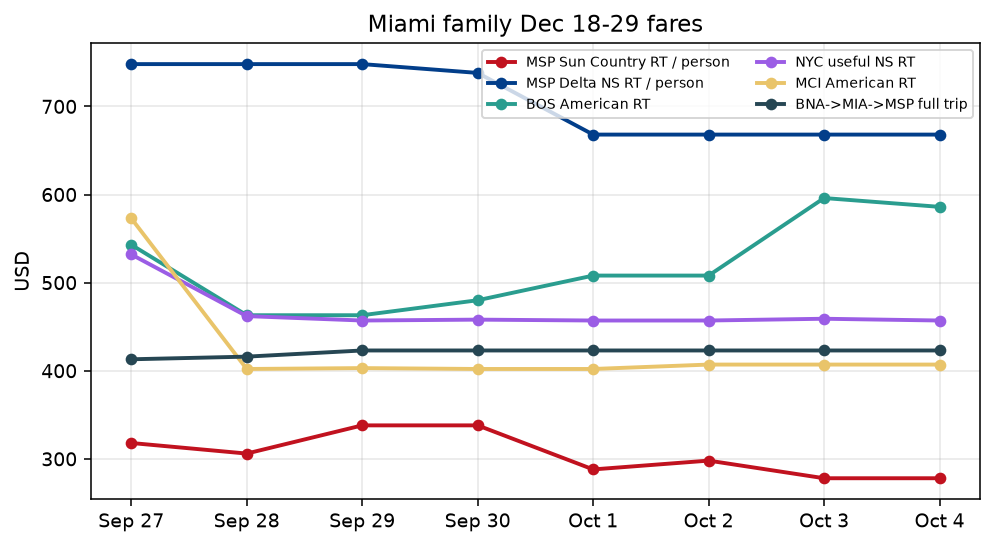
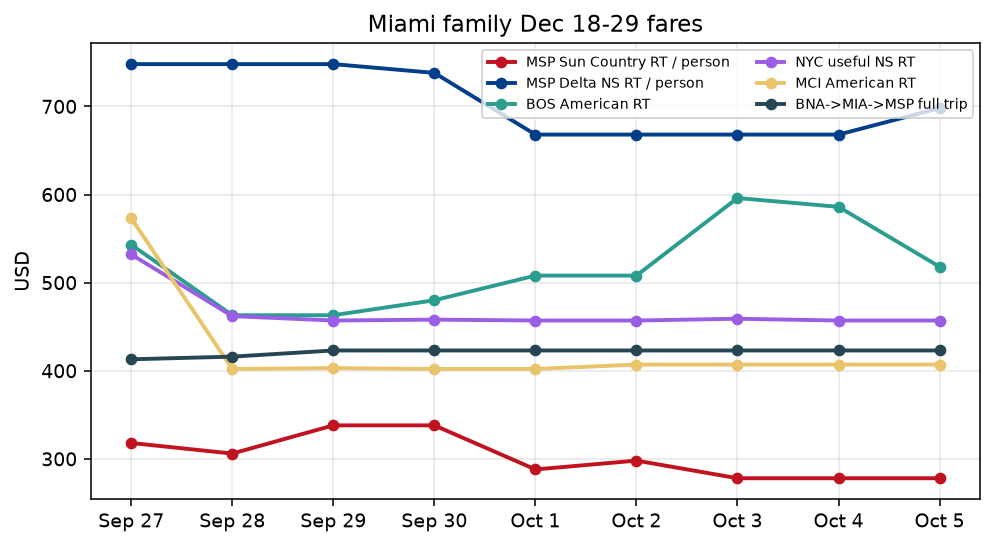
Miami family fare chart Oct 5 2026

diff --git a/6dc15cc5-09f8-44b2-ac51-10da98fa75e8/index.html b/6dc15cc5-09f8-44b2-ac51-10da98fa75e8/index.html
@@ -59,14 +59,14 @@
   BNA→MIA / MIA→MSP = <em>full open-jaw trip</em> (1 adult).</div>
   <div class="warn"><strong>About chart links:</strong> Clicks open the date/route search — Google does not deep-link a specific itinerary.
   For MSP Sun Country, pick the ~6:05a outbound, then the ~11:51a return (today <strong>$278</strong> RT/person; outbound list alone can show lower).</div>
-  <div class="note"><strong>Best time to buy (heuristic):</strong> ~11 weeks to Dec 18. Watch into October; lock by Halloween. MSP Sun Country today: $278/pp. Chart links open the search — pick that airline.</div>
+  <div class="note"><strong>Best time to buy (heuristic):</strong> ~10 weeks to Dec 18. Watch into October; lock by Halloween. MSP Sun Country today: $278/pp. Chart links open the search — pick that airline.</div>
   <div class="chart-box"><canvas id="c"></canvas></div>
   <p class="hint">Updated from watch scans. Not financial advice.</p>
   <div class="table-scroll"><table id="t"><thead><tr><th>Date</th><th>Route</th><th>$</th><th>Basis</th><th>OUT</th><th>RETURN</th><th>Link</th></tr></thead><tbody></tbody></table></div>
   <div class="cards" id="cards"></div>
 </div>
 <script>
-const datasets = [{"label": "MSP Sun Country RT / person", "borderColor": "#c1121f", "backgroundColor": "#c1121f", "data": [{"x": "2026-09-27", "y": 318, "out": "SY MSP 6:05a→MIA 10:53a Dec 18", "ret": "SY MIA 11:51a→MSP 3:00p Dec 29", "airline": "Sun Country", "url": "https://www.google.com/travel/flights/search?tfs=EAAaHhIKMjAyNi0xMi0xOGoHCAESA01TUHIHCAESA01JQRoeEgoyMDI2LTEyLTI5agcIARIDTUlBcgcIARIDTVNQQAFIAZgBAQ&hl=en&curr=USD", "label": "MSP Sun Country RT / person", "basis": "Round-trip / person (x2 for 2 adults)", "tip": ""}, {"x": "2026-09-28", "y": 306, "out": "SY morning MSP→MIA", "ret": "paired SY return (times not re-logged)", "airline": "Sun Country", "url": "https://www.google.com/travel/flights/search?tfs=EAAaHhIKMjAyNi0xMi0xOGoHCAESA01TUHIHCAESA01JQRoeEgoyMDI2LTEyLTI5agcIARIDTUlBcgcIARIDTVNQQAFIAZgBAQ&hl=en&curr=USD", "label": "MSP Sun Country RT / person", "basis": "Round-trip / person (x2 for 2 adults)", "tip": ""}, {"x": "2026-09-29", "y": 338, "out": "SY MSP→MIA morning", "ret": "SY return (not re-logged)", "airline": "Sun Country", "url": "https://www.google.com/travel/flights/search?tfs=EAAaHhIKMjAyNi0xMi0xOGoHCAESA01TUHIHCAESA01JQRoeEgoyMDI2LTEyLTI5agcIARIDTUlBcgcIARIDTVNQQAFIAZgBAQ&hl=en&curr=USD", "label": "MSP Sun Country RT / person", "basis": "Round-trip / person (x2 for 2 adults)", "tip": ""}, {"x": "2026-09-30", "y": 338, "out": "SY MSP→MIA", "ret": "SY return", "airline": "Sun Country", "url": "https://www.google.com/travel/flights/search?tfs=EAAaHhIKMjAyNi0xMi0xOGoHCAESA01TUHIHCAESA01JQRoeEgoyMDI2LTEyLTI5agcIARIDTUlBcgcIARIDTVNQQAFIAZgBAQ&hl=en&curr=USD", "label": "MSP Sun Country RT / person", "basis": "Round-trip / person (x2 for 2 adults)", "tip": ""}, {"x": "2026-10-01", "y": 288, "out": "SY MSP 6:05a→MIA 10:53a Dec 18", "ret": "SY MIA→MSP (midday pairing typical)", "airline": "Sun Country", "url": "https://www.google.com/travel/flights/search?tfs=EAAaHhIKMjAyNi0xMi0xOGoHCAESA01TUHIHCAESA01JQRoeEgoyMDI2LTEyLTI5agcIARIDTUlBcgcIARIDTVNQQAFIAZgBAQ&hl=en&curr=USD", "label": "MSP Sun Country RT / person", "basis": "Round-trip / person (x2 for 2 adults)", "tip": ""}, {"x": "2026-10-02", "y": 298, "out": "SY MSP 6:05a→MIA 10:53a Dec 18", "ret": "SY MIA 11:51a→MSP 3:00p Dec 29", "airline": "Sun Country", "url": "https://www.google.com/travel/flights/search?tfs=EAAaHhIKMjAyNi0xMi0xOGoHCAESA01TUHIHCAESA01JQRoeEgoyMDI2LTEyLTI5agcIARIDTUlBcgcIARIDTVNQQAFIAZgBAQ&hl=en&curr=USD", "label": "MSP Sun Country RT / person", "basis": "Round-trip / person (x2 for 2 adults)", "tip": "Verified 2026-10-02: outbound list $287; SY+SY RT total $298 after return select. Chart/email use $298."}, {"x": "2026-10-03", "y": 278, "out": "SY MSP 6:05a→MIA 10:53a Dec 18", "ret": "SY MIA 11:51a→MSP 3:00p Dec 29", "airline": "Sun Country", "url": "https://www.google.com/travel/flights/search?tfs=EAAaHhIKMjAyNi0xMi0xOGoHCAESA01TUHIHCAESA01JQRoeEgoyMDI2LTEyLTI5agcIARIDTUlBcgcIARIDTVNQQAFIAZgBAQ&hl=en&curr=USD", "label": "MSP Sun Country RT / person", "basis": "Round-trip / person (x2 for 2 adults)", "tip": "Verified 2026-10-03: outbound list $267/pp ($534 for 2); after selecting SY return midday, RT=$556 total = $278/pp."}, {"x": "2026-10-04", "y": 278, "out": "SY MSP 6:05a→MIA 10:53a Dec 18", "ret": "SY MIA 11:51a→MSP 3:00p Dec 29", "airline": "Sun Country", "url": "https://www.google.com/travel/flights/search?tfs=EAAaHhIKMjAyNi0xMi0xOGoHCAESA01TUHIHCAESA01JQRoeEgoyMDI2LTEyLTI5agcIARIDTUlBcgcIARIDTVNQQAFIAZgBAQ&hl=en&curr=USD", "label": "MSP Sun Country RT / person", "basis": "Round-trip / person (x2 for 2 adults)", "tip": "Verified 2026-10-04: outbound list $267/pp ($534 for 2); after selecting SY return midday, RT=$556 total = $278/pp."}], "tension": 0.2, "pointRadius": 5, "pointHoverRadius": 8}, {"label": "MSP Delta NS RT / person", "borderColor": "#023e8a", "backgroundColor": "#023e8a", "data": [{"x": "2026-09-27", "y": 748, "out": "DL MSP 8:50a→MIA 1:34p Dec 18", "ret": "DL MIA 7:11p→MSP 10:19p Dec 29", "airline": "Delta", "url": "https://www.google.com/travel/flights/search?tfs=EAAaHhIKMjAyNi0xMi0xOGoHCAESA01TUHIHCAESA01JQRoeEgoyMDI2LTEyLTI5agcIARIDTUlBcgcIARIDTVNQQAFIAZgBAQ&hl=en&curr=USD", "label": "MSP Delta NS RT / person", "basis": "Round-trip / person (x2 for 2 adults)", "tip": ""}, {"x": "2026-09-28", "y": 748, "out": "DL nonstop MSP→MIA", "ret": "DL return (not re-logged)", "airline": "Delta", "url": "https://www.google.com/travel/flights/search?tfs=EAAaHhIKMjAyNi0xMi0xOGoHCAESA01TUHIHCAESA01JQRoeEgoyMDI2LTEyLTI5agcIARIDTUlBcgcIARIDTVNQQAFIAZgBAQ&hl=en&curr=USD", "label": "MSP Delta NS RT / person", "basis": "Round-trip / person (x2 for 2 adults)", "tip": ""}, {"x": "2026-09-29", "y": 748, "out": "DL NS", "ret": "DL return", "airline": "Delta", "url": "https://www.google.com/travel/flights/search?tfs=EAAaHhIKMjAyNi0xMi0xOGoHCAESA01TUHIHCAESA01JQRoeEgoyMDI2LTEyLTI5agcIARIDTUlBcgcIARIDTVNQQAFIAZgBAQ&hl=en&curr=USD", "label": "MSP Delta NS RT / person", "basis": "Round-trip / person (x2 for 2 adults)", "tip": ""}, {"x": "2026-09-30", "y": 738, "out": "DL NS", "ret": "DL return", "airline": "Delta", "url": "https://www.google.com/travel/flights/search?tfs=EAAaHhIKMjAyNi0xMi0xOGoHCAESA01TUHIHCAESA01JQRoeEgoyMDI2LTEyLTI5agcIARIDTUlBcgcIARIDTVNQQAFIAZgBAQ&hl=en&curr=USD", "label": "MSP Delta NS RT / person", "basis": "Round-trip / person (x2 for 2 adults)", "tip": ""}, {"x": "2026-10-01", "y": 668, "out": "DL MSP→MIA NS", "ret": "DL return", "airline": "Delta", "url": "https://www.google.com/travel/flights/search?tfs=EAAaHhIKMjAyNi0xMi0xOGoHCAESA01TUHIHCAESA01JQRoeEgoyMDI2LTEyLTI5agcIARIDTUlBcgcIARIDTVNQQAFIAZgBAQ&hl=en&curr=USD", "label": "MSP Delta NS RT / person", "basis": "Round-trip / person (x2 for 2 adults)", "tip": ""}, {"x": "2026-10-02", "y": 668, "out": "DL MSP 8:50a→MIA 1:34p or 6:59p→11:48p Dec 18", "ret": "open search for Dec 29 DL return", "airline": "Delta", "url": "https://www.google.com/travel/flights/search?tfs=EAAaHhIKMjAyNi0xMi0xOGoHCAESA01TUHIHCAESA01JQRoeEgoyMDI2LTEyLTI5agcIARIDTUlBcgcIARIDTVNQQAFIAZgBAQ&hl=en&curr=USD", "label": "MSP Delta NS RT / person", "basis": "Round-trip / person (x2 for 2 adults)", "tip": ""}, {"x": "2026-10-03", "y": 668, "out": "DL MSP 8:50a→MIA 1:34p or 6:59p→11:48p Dec 18", "ret": "open search for Dec 29 DL return", "airline": "Delta", "url": "https://www.google.com/travel/flights/search?tfs=EAAaHhIKMjAyNi0xMi0xOGoHCAESA01TUHIHCAESA01JQRoeEgoyMDI2LTEyLTI5agcIARIDTUlBcgcIARIDTVNQQAFIAZgBAQ&hl=en&curr=USD", "label": "MSP Delta NS RT / person", "basis": "Round-trip / person (x2 for 2 adults)", "tip": ""}, {"x": "2026-10-04", "y": 668, "out": "DL MSP 8:50a→MIA 1:34p or 6:59p→11:48p Dec 18", "ret": "open search for Dec 29 DL return", "airline": "Delta", "url": "https://www.google.com/travel/flights/search?tfs=EAAaHhIKMjAyNi0xMi0xOGoHCAESA01TUHIHCAESA01JQRoeEgoyMDI2LTEyLTI5agcIARIDTUlBcgcIARIDTVNQQAFIAZgBAQ&hl=en&curr=USD", "label": "MSP Delta NS RT / person", "basis": "Round-trip / person (x2 for 2 adults)", "tip": ""}], "tension": 0.2, "pointRadius": 5, "pointHoverRadius": 8}, {"label": "BOS American RT", "borderColor": "#2a9d8f", "backgroundColor": "#2a9d8f", "data": [{"x": "2026-09-27", "y": 543, "out": "AA BOS 6:00a→MIA 9:42a Dec 18", "ret": "AA MIA 12:25p→BOS 4:02p Dec 29", "airline": "American", "url": "https://www.google.com/travel/flights/search?tfs=EAAaHhIKMjAyNi0xMi0xOGoHCAESA0JPU3IHCAESA01JQRoeEgoyMDI2LTEyLTI5agcIARIDTUlBcgcIARIDQk9TQAFIAZgBAQ&hl=en&curr=USD", "label": "BOS American RT", "basis": "Round-trip (1 adult)", "tip": ""}, {"x": "2026-09-28", "y": 463, "out": "AA morning BOS→MIA", "ret": "AA return (not re-logged that day)", "airline": "American", "url": "https://www.google.com/travel/flights/search?tfs=EAAaHhIKMjAyNi0xMi0xOGoHCAESA0JPU3IHCAESA01JQRoeEgoyMDI2LTEyLTI5agcIARIDTUlBcgcIARIDQk9TQAFIAZgBAQ&hl=en&curr=USD", "label": "BOS American RT", "basis": "Round-trip (1 adult)", "tip": ""}, {"x": "2026-09-29", "y": 463, "out": "AA BOS→MIA", "ret": "return not re-logged", "airline": "American", "url": "https://www.google.com/travel/flights/search?tfs=EAAaHhIKMjAyNi0xMi0xOGoHCAESA0JPU3IHCAESA01JQRoeEgoyMDI2LTEyLTI5agcIARIDTUlBcgcIARIDQk9TQAFIAZgBAQ&hl=en&curr=USD", "label": "BOS American RT", "basis": "Round-trip (1 adult)", "tip": ""}, {"x": "2026-09-30", "y": 480, "out": "AA BOS→MIA", "ret": "return not re-logged", "airline": "American", "url": "https://www.google.com/travel/flights/search?tfs=EAAaHhIKMjAyNi0xMi0xOGoHCAESA0JPU3IHCAESA01JQRoeEgoyMDI2LTEyLTI5agcIARIDTUlBcgcIARIDQk9TQAFIAZgBAQ&hl=en&curr=USD", "label": "BOS American RT", "basis": "Round-trip (1 adult)", "tip": ""}, {"x": "2026-10-01", "y": 508, "out": "AA BOS 6:00a→MIA 9:42a Dec 18", "ret": "return not captured in scan email", "airline": "American", "url": "https://www.google.com/travel/flights/search?tfs=EAAaHhIKMjAyNi0xMi0xOGoHCAESA0JPU3IHCAESA01JQRoeEgoyMDI2LTEyLTI5agcIARIDTUlBcgcIARIDQk9TQAFIAZgBAQ&hl=en&curr=USD", "label": "BOS American RT", "basis": "Round-trip (1 adult)", "tip": ""}, {"x": "2026-10-02", "y": 508, "out": "AA BOS 6:00a→MIA 9:42a Dec 18", "ret": "open search for Dec 29 AA return (prefer afternoon nonstop)", "airline": "American", "url": "https://www.google.com/travel/flights/search?tfs=EAAaHhIKMjAyNi0xMi0xOGoHCAESA0JPU3IHCAESA01JQRoeEgoyMDI2LTEyLTI5agcIARIDTUlBcgcIARIDQk9TQAFIAZgBAQ&hl=en&curr=USD", "label": "BOS American RT", "basis": "Round-trip (1 adult)", "tip": ""}, {"x": "2026-10-03", "y": 596, "out": "AA BOS 6:00a→MIA 9:42a Dec 18", "ret": "open search for Dec 29 AA return (prefer afternoon nonstop)", "airline": "American", "url": "https://www.google.com/travel/flights/search?tfs=EAAaHhIKMjAyNi0xMi0xOGoHCAESA0JPU3IHCAESA01JQRoeEgoyMDI2LTEyLTI5agcIARIDTUlBcgcIARIDQk9TQAFIAZgBAQ&hl=en&curr=USD", "label": "BOS American RT", "basis": "Round-trip (1 adult)", "tip": ""}, {"x": "2026-10-04", "y": 586, "out": "AA BOS 5:00a→MIA 8:42a or 6:00a→9:42a Dec 18", "ret": "open search for Dec 29 AA return (prefer afternoon nonstop)", "airline": "American", "url": "https://www.google.com/travel/flights/search?tfs=EAAaHhIKMjAyNi0xMi0xOGoHCAESA0JPU3IHCAESA01JQRoeEgoyMDI2LTEyLTI5agcIARIDTUlBcgcIARIDQk9TQAFIAZgBAQ&hl=en&curr=USD", "label": "BOS American RT", "basis": "Round-trip (1 adult)", "tip": ""}], "tension": 0.2, "pointRadius": 5, "pointHoverRadius": 8}, {"label": "NYC useful NS RT", "borderColor": "#9b5de5", "backgroundColor": "#9b5de5", "data": [{"x": "2026-09-27", "y": 532, "out": "AA EWR 6:00a→MIA 9:15a Dec 18", "ret": "AA MIA 2:24p→EWR 5:33p Dec 29", "airline": "American", "url": "https://www.google.com/travel/flights/search?tfs=EAAaHhIKMjAyNi0xMi0xOGoHCAESA05ZQ3IHCAESA01JQRoeEgoyMDI2LTEyLTI5agcIARIDTUlBcgcIARIDTllDQAFIAZgBAQ&hl=en&curr=USD", "label": "NYC useful NS RT", "basis": "Round-trip (1 adult)", "tip": ""}, {"x": "2026-09-28", "y": 462, "out": "AA LGA morning", "ret": "return not re-logged", "airline": "American", "url": "https://www.google.com/travel/flights/search?tfs=EAAaHhIKMjAyNi0xMi0xOGoHCAESA05ZQ3IHCAESA01JQRoeEgoyMDI2LTEyLTI5agcIARIDTUlBcgcIARIDTllDQAFIAZgBAQ&hl=en&curr=USD", "label": "NYC useful NS RT", "basis": "Round-trip (1 adult)", "tip": ""}, {"x": "2026-09-29", "y": 457, "out": "UA EWR→MIA", "ret": "return not re-logged", "airline": "United", "url": "https://www.google.com/travel/flights/search?tfs=EAAaHhIKMjAyNi0xMi0xOGoHCAESA05ZQ3IHCAESA01JQRoeEgoyMDI2LTEyLTI5agcIARIDTUlBcgcIARIDTllDQAFIAZgBAQ&hl=en&curr=USD", "label": "NYC useful NS RT", "basis": "Round-trip (1 adult)", "tip": ""}, {"x": "2026-09-30", "y": 458, "out": "UA EWR→MIA", "ret": "return not re-logged", "airline": "United", "url": "https://www.google.com/travel/flights/search?tfs=EAAaHhIKMjAyNi0xMi0xOGoHCAESA05ZQ3IHCAESA01JQRoeEgoyMDI2LTEyLTI5agcIARIDTUlBcgcIARIDTllDQAFIAZgBAQ&hl=en&curr=USD", "label": "NYC useful NS RT", "basis": "Round-trip (1 adult)", "tip": ""}, {"x": "2026-10-01", "y": 457, "out": "UA EWR 1:25p→MIA 4:47p Dec 18", "ret": "return not captured in scan email", "airline": "United", "url": "https://www.google.com/travel/flights/search?tfs=EAAaHhIKMjAyNi0xMi0xOGoHCAESA05ZQ3IHCAESA01JQRoeEgoyMDI2LTEyLTI5agcIARIDTUlBcgcIARIDTllDQAFIAZgBAQ&hl=en&curr=USD", "label": "NYC useful NS RT", "basis": "Round-trip (1 adult)", "tip": ""}, {"x": "2026-10-02", "y": 457, "out": "UA EWR 1:25p→MIA 4:47p Dec 18", "ret": "open search for Dec 29 return", "airline": "United", "url": "https://www.google.com/travel/flights/search?tfs=EAAaHhIKMjAyNi0xMi0xOGoHCAESA05ZQ3IHCAESA01JQRoeEgoyMDI2LTEyLTI5agcIARIDTUlBcgcIARIDTllDQAFIAZgBAQ&hl=en&curr=USD", "label": "NYC useful NS RT", "basis": "Round-trip (1 adult)", "tip": ""}, {"x": "2026-10-03", "y": 459, "out": "UA EWR 1:25p→MIA 4:47p Dec 18", "ret": "open search for Dec 29 return", "airline": "United", "url": "https://www.google.com/travel/flights/search?tfs=EAAaHhIKMjAyNi0xMi0xOGoHCAESA05ZQ3IHCAESA01JQRoeEgoyMDI2LTEyLTI5agcIARIDTUlBcgcIARIDTllDQAFIAZgBAQ&hl=en&curr=USD", "label": "NYC useful NS RT", "basis": "Round-trip (1 adult)", "tip": ""}, {"x": "2026-10-04", "y": 457, "out": "UA EWR 1:25p→MIA 4:47p Dec 18", "ret": "open search for Dec 29 return", "airline": "United", "url": "https://www.google.com/travel/flights/search?tfs=EAAaHhIKMjAyNi0xMi0xOGoHCAESA05ZQ3IHCAESA01JQRoeEgoyMDI2LTEyLTI5agcIARIDTUlBcgcIARIDTllDQAFIAZgBAQ&hl=en&curr=USD", "label": "NYC useful NS RT", "basis": "Round-trip (1 adult)", "tip": ""}], "tension": 0.2, "pointRadius": 5, "pointHoverRadius": 8}, {"label": "MCI American RT", "borderColor": "#e9c46a", "backgroundColor": "#e9c46a", "data": [{"x": "2026-09-27", "y": 573, "out": "AA MCI 5:00a→MIA 9:15a Dec 18", "ret": "AA MIA 2:10p→MCI 4:43p Dec 29", "airline": "American", "url": "https://www.google.com/travel/flights/search?tfs=EAAaHhIKMjAyNi0xMi0xOGoHCAESA01DSXIHCAESA01JQRoeEgoyMDI2LTEyLTI5agcIARIDTUlBcgcIARIDTUNJQAFIAZgBAQ&hl=en&curr=USD", "label": "MCI American RT", "basis": "Round-trip (1 adult)", "tip": ""}, {"x": "2026-09-28", "y": 402, "out": "AA evening MCI→MIA (cheapest NS)", "ret": "return not re-logged", "airline": "American", "url": "https://www.google.com/travel/flights/search?tfs=EAAaHhIKMjAyNi0xMi0xOGoHCAESA01DSXIHCAESA01JQRoeEgoyMDI2LTEyLTI5agcIARIDTUlBcgcIARIDTUNJQAFIAZgBAQ&hl=en&curr=USD", "label": "MCI American RT", "basis": "Round-trip (1 adult)", "tip": ""}, {"x": "2026-09-29", "y": 403, "out": "AA MCI→MIA", "ret": "return not re-logged", "airline": "American", "url": "https://www.google.com/travel/flights/search?tfs=EAAaHhIKMjAyNi0xMi0xOGoHCAESA01DSXIHCAESA01JQRoeEgoyMDI2LTEyLTI5agcIARIDTUlBcgcIARIDTUNJQAFIAZgBAQ&hl=en&curr=USD", "label": "MCI American RT", "basis": "Round-trip (1 adult)", "tip": ""}, {"x": "2026-09-30", "y": 402, "out": "AA MCI→MIA", "ret": "return not re-logged", "airline": "American", "url": "https://www.google.com/travel/flights/search?tfs=EAAaHhIKMjAyNi0xMi0xOGoHCAESA01DSXIHCAESA01JQRoeEgoyMDI2LTEyLTI5agcIARIDTUlBcgcIARIDTUNJQAFIAZgBAQ&hl=en&curr=USD", "label": "MCI American RT", "basis": "Round-trip (1 adult)", "tip": ""}, {"x": "2026-10-01", "y": 402, "out": "AA MCI 5:23p→MIA 9:40p Dec 18", "ret": "return not captured in scan email", "airline": "American", "url": "https://www.google.com/travel/flights/search?tfs=EAAaHhIKMjAyNi0xMi0xOGoHCAESA01DSXIHCAESA01JQRoeEgoyMDI2LTEyLTI5agcIARIDTUlBcgcIARIDTUNJQAFIAZgBAQ&hl=en&curr=USD", "label": "MCI American RT", "basis": "Round-trip (1 adult)", "tip": ""}, {"x": "2026-10-02", "y": 407, "out": "AA MCI 5:23p→MIA 9:40p Dec 18", "ret": "open search for Dec 29 return", "airline": "American", "url": "https://www.google.com/travel/flights/search?tfs=EAAaHhIKMjAyNi0xMi0xOGoHCAESA01DSXIHCAESA01JQRoeEgoyMDI2LTEyLTI5agcIARIDTUlBcgcIARIDTUNJQAFIAZgBAQ&hl=en&curr=USD", "label": "MCI American RT", "basis": "Round-trip (1 adult)", "tip": ""}, {"x": "2026-10-03", "y": 407, "out": "AA MCI 5:23p→MIA 9:40p Dec 18", "ret": "open search for Dec 29 return", "airline": "American", "url": "https://www.google.com/travel/flights/search?tfs=EAAaHhIKMjAyNi0xMi0xOGoHCAESA01DSXIHCAESA01JQRoeEgoyMDI2LTEyLTI5agcIARIDTUlBcgcIARIDTUNJQAFIAZgBAQ&hl=en&curr=USD", "label": "MCI American RT", "basis": "Round-trip (1 adult)", "tip": ""}, {"x": "2026-10-04", "y": 407, "out": "AA MCI 5:23p→MIA 9:40p Dec 18", "ret": "open search for Dec 29 return", "airline": "American", "url": "https://www.google.com/travel/flights/search?tfs=EAAaHhIKMjAyNi0xMi0xOGoHCAESA01DSXIHCAESA01JQRoeEgoyMDI2LTEyLTI5agcIARIDTUlBcgcIARIDTUNJQAFIAZgBAQ&hl=en&curr=USD", "label": "MCI American RT", "basis": "Round-trip (1 adult)", "tip": ""}], "tension": 0.2, "pointRadius": 5, "pointHoverRadius": 8}, {"label": "BNA->MIA->MSP full trip", "borderColor": "#264653", "backgroundColor": "#264653", "data": [{"x": "2026-09-27", "y": 413, "out": "AA BNA 5:00a→MIA 8:27a Dec 18", "ret": "AA MIA 8:55p→MSP 11:59p Dec 29 (or SY midday)", "airline": "AA + return", "url": "https://www.google.com/travel/flights/search?tfs=EAAaHhIKMjAyNi0xMi0xOGoHCAESA0JOQXIHCAESA01JQRoeEgoyMDI2LTEyLTI5agcIARIDTUlBcgcIARIDTVNQQAFIAZgBAQ&hl=en&curr=USD", "label": "BNA→MIA→MSP full trip", "basis": "Full open-jaw trip", "tip": ""}, {"x": "2026-09-28", "y": 416, "out": "AA BNA early→MIA", "ret": "SY/AA MIA→MSP", "airline": "AA+SY", "url": "https://www.google.com/travel/flights/search?tfs=EAAaHhIKMjAyNi0xMi0xOGoHCAESA0JOQXIHCAESA01JQRoeEgoyMDI2LTEyLTI5agcIARIDTUlBcgcIARIDTVNQQAFIAZgBAQ&hl=en&curr=USD", "label": "BNA→MIA→MSP full trip", "basis": "Full open-jaw trip", "tip": ""}, {"x": "2026-09-29", "y": 423, "out": "AA BNA 5:00a→8:27a", "ret": "SY MIA 11:51a→MSP 3:00p", "airline": "AA+SY", "url": "https://www.google.com/travel/flights/search?tfs=EAAaHhIKMjAyNi0xMi0xOGoHCAESA0JOQXIHCAESA01JQRoeEgoyMDI2LTEyLTI5agcIARIDTUlBcgcIARIDTVNQQAFIAZgBAQ&hl=en&curr=USD", "label": "BNA→MIA→MSP full trip", "basis": "Full open-jaw trip", "tip": ""}, {"x": "2026-09-30", "y": 423, "out": "AA BNA 5:00a→8:27a", "ret": "SY MIA 11:51a→MSP 3:00p", "airline": "AA+SY", "url": "https://www.google.com/travel/flights/search?tfs=EAAaHhIKMjAyNi0xMi0xOGoHCAESA0JOQXIHCAESA01JQRoeEgoyMDI2LTEyLTI5agcIARIDTUlBcgcIARIDTVNQQAFIAZgBAQ&hl=en&curr=USD", "label": "BNA→MIA→MSP full trip", "basis": "Full open-jaw trip", "tip": ""}, {"x": "2026-10-01", "y": 423, "out": "AA BNA 5:00a→MIA 8:27a $264", "ret": "SY MIA 11:51a→MSP 3:00p $159", "airline": "AA+SY", "url": "https://www.google.com/travel/flights/search?tfs=EAAaHhIKMjAyNi0xMi0xOGoHCAESA0JOQXIHCAESA01JQRoeEgoyMDI2LTEyLTI5agcIARIDTUlBcgcIARIDTVNQQAFIAZgBAQ&hl=en&curr=USD", "label": "BNA→MIA→MSP full trip", "basis": "Full open-jaw trip", "tip": ""}, {"x": "2026-10-02", "y": 423, "out": "AA BNA 5:00a→MIA 8:27a $264", "ret": "SY MIA 11:51a→MSP 3:00p $159", "airline": "AA+SY", "url": "https://www.google.com/travel/flights/search?tfs=EAAaHhIKMjAyNi0xMi0xOGoHCAESA0JOQXIHCAESA01JQRoeEgoyMDI2LTEyLTI5agcIARIDTUlBcgcIARIDTVNQQAFIAZgBAQ&hl=en&curr=USD", "label": "BNA→MIA→MSP full trip", "basis": "Full open-jaw trip", "tip": ""}, {"x": "2026-10-03", "y": 423, "out": "AA BNA 5:00a→MIA 8:27a $264", "ret": "SY MIA 11:51a→MSP 3:00p $159", "airline": "AA+SY", "url": "https://www.google.com/travel/flights/search?tfs=EAAaHhIKMjAyNi0xMi0xOGoHCAESA0JOQXIHCAESA01JQRoeEgoyMDI2LTEyLTI5agcIARIDTUlBcgcIARIDTVNQQAFIAZgBAQ&hl=en&curr=USD", "label": "BNA→MIA→MSP full trip", "basis": "Full open-jaw trip", "tip": ""}, {"x": "2026-10-04", "y": 423, "out": "AA BNA 5:00a→MIA 8:27a $264", "ret": "SY MIA 11:51a→MSP 3:00p $159", "airline": "AA+SY", "url": "https://www.google.com/travel/flights/search?tfs=EAAaHhIKMjAyNi0xMi0xOGoHCAESA0JOQXIHCAESA01JQRoeEgoyMDI2LTEyLTI5agcIARIDTUlBcgcIARIDTVNQQAFIAZgBAQ&hl=en&curr=USD", "label": "BNA→MIA→MSP full trip", "basis": "Full open-jaw trip", "tip": ""}], "tension": 0.2, "pointRadius": 5, "pointHoverRadius": 8}];
+const datasets = [{"label": "MSP Sun Country RT / person", "borderColor": "#c1121f", "backgroundColor": "#c1121f", "data": [{"x": "2026-09-27", "y": 318, "out": "SY MSP 6:05a→MIA 10:53a Dec 18", "ret": "SY MIA 11:51a→MSP 3:00p Dec 29", "airline": "Sun Country", "url": "https://www.google.com/travel/flights/search?tfs=EAAaHhIKMjAyNi0xMi0xOGoHCAESA01TUHIHCAESA01JQRoeEgoyMDI2LTEyLTI5agcIARIDTUlBcgcIARIDTVNQQAFIAZgBAQ&hl=en&curr=USD", "label": "MSP Sun Country RT / person", "basis": "Round-trip / person (x2 for 2 adults)", "tip": ""}, {"x": "2026-09-28", "y": 306, "out": "SY morning MSP→MIA", "ret": "paired SY return (times not re-logged)", "airline": "Sun Country", "url": "https://www.google.com/travel/flights/search?tfs=EAAaHhIKMjAyNi0xMi0xOGoHCAESA01TUHIHCAESA01JQRoeEgoyMDI2LTEyLTI5agcIARIDTUlBcgcIARIDTVNQQAFIAZgBAQ&hl=en&curr=USD", "label": "MSP Sun Country RT / person", "basis": "Round-trip / person (x2 for 2 adults)", "tip": ""}, {"x": "2026-09-29", "y": 338, "out": "SY MSP→MIA morning", "ret": "SY return (not re-logged)", "airline": "Sun Country", "url": "https://www.google.com/travel/flights/search?tfs=EAAaHhIKMjAyNi0xMi0xOGoHCAESA01TUHIHCAESA01JQRoeEgoyMDI2LTEyLTI5agcIARIDTUlBcgcIARIDTVNQQAFIAZgBAQ&hl=en&curr=USD", "label": "MSP Sun Country RT / person", "basis": "Round-trip / person (x2 for 2 adults)", "tip": ""}, {"x": "2026-09-30", "y": 338, "out": "SY MSP→MIA", "ret": "SY return", "airline": "Sun Country", "url": "https://www.google.com/travel/flights/search?tfs=EAAaHhIKMjAyNi0xMi0xOGoHCAESA01TUHIHCAESA01JQRoeEgoyMDI2LTEyLTI5agcIARIDTUlBcgcIARIDTVNQQAFIAZgBAQ&hl=en&curr=USD", "label": "MSP Sun Country RT / person", "basis": "Round-trip / person (x2 for 2 adults)", "tip": ""}, {"x": "2026-10-01", "y": 288, "out": "SY MSP 6:05a→MIA 10:53a Dec 18", "ret": "SY MIA→MSP (midday pairing typical)", "airline": "Sun Country", "url": "https://www.google.com/travel/flights/search?tfs=EAAaHhIKMjAyNi0xMi0xOGoHCAESA01TUHIHCAESA01JQRoeEgoyMDI2LTEyLTI5agcIARIDTUlBcgcIARIDTVNQQAFIAZgBAQ&hl=en&curr=USD", "label": "MSP Sun Country RT / person", "basis": "Round-trip / person (x2 for 2 adults)", "tip": ""}, {"x": "2026-10-02", "y": 298, "out": "SY MSP 6:05a→MIA 10:53a Dec 18", "ret": "SY MIA 11:51a→MSP 3:00p Dec 29", "airline": "Sun Country", "url": "https://www.google.com/travel/flights/search?tfs=EAAaHhIKMjAyNi0xMi0xOGoHCAESA01TUHIHCAESA01JQRoeEgoyMDI2LTEyLTI5agcIARIDTUlBcgcIARIDTVNQQAFIAZgBAQ&hl=en&curr=USD", "label": "MSP Sun Country RT / person", "basis": "Round-trip / person (x2 for 2 adults)", "tip": "Verified 2026-10-02: outbound list $287; SY+SY RT total $298 after return select. Chart/email use $298."}, {"x": "2026-10-03", "y": 278, "out": "SY MSP 6:05a→MIA 10:53a Dec 18", "ret": "SY MIA 11:51a→MSP 3:00p Dec 29", "airline": "Sun Country", "url": "https://www.google.com/travel/flights/search?tfs=EAAaHhIKMjAyNi0xMi0xOGoHCAESA01TUHIHCAESA01JQRoeEgoyMDI2LTEyLTI5agcIARIDTUlBcgcIARIDTVNQQAFIAZgBAQ&hl=en&curr=USD", "label": "MSP Sun Country RT / person", "basis": "Round-trip / person (x2 for 2 adults)", "tip": "Verified 2026-10-03: outbound list $267/pp ($534 for 2); after selecting SY return midday, RT=$556 total = $278/pp."}, {"x": "2026-10-04", "y": 278, "out": "SY MSP 6:05a→MIA 10:53a Dec 18", "ret": "SY MIA 11:51a→MSP 3:00p Dec 29", "airline": "Sun Country", "url": "https://www.google.com/travel/flights/search?tfs=EAAaHhIKMjAyNi0xMi0xOGoHCAESA01TUHIHCAESA01JQRoeEgoyMDI2LTEyLTI5agcIARIDTUlBcgcIARIDTVNQQAFIAZgBAQ&hl=en&curr=USD", "label": "MSP Sun Country RT / person", "basis": "Round-trip / person (x2 for 2 adults)", "tip": "Verified 2026-10-04: outbound list $267/pp ($534 for 2); after selecting SY return midday, RT=$556 total = $278/pp."}, {"x": "2026-10-05", "y": 278, "out": "SY MSP 6:05a→MIA 10:53a Dec 18", "ret": "SY MIA 11:51a→MSP 3:00p Dec 29", "airline": "Sun Country", "url": "https://www.google.com/travel/flights/search?tfs=EAAaHhIKMjAyNi0xMi0xOGoHCAESA01TUHIHCAESA01JQRoeEgoyMDI2LTEyLTI5agcIARIDTUlBcgcIARIDTVNQQAFIAZgBAQ&hl=en&curr=USD", "label": "MSP Sun Country RT / person", "basis": "Round-trip / person (x2 for 2 adults)", "tip": "Verified 2026-10-05: outbound list $278/pp; after selecting SY 11:51a return, RT=$278/pp ($556 for 2); summary page lowest total $278 (Sun Country direct)."}], "tension": 0.2, "pointRadius": 5, "pointHoverRadius": 8}, {"label": "MSP Delta NS RT / person", "borderColor": "#023e8a", "backgroundColor": "#023e8a", "data": [{"x": "2026-09-27", "y": 748, "out": "DL MSP 8:50a→MIA 1:34p Dec 18", "ret": "DL MIA 7:11p→MSP 10:19p Dec 29", "airline": "Delta", "url": "https://www.google.com/travel/flights/search?tfs=EAAaHhIKMjAyNi0xMi0xOGoHCAESA01TUHIHCAESA01JQRoeEgoyMDI2LTEyLTI5agcIARIDTUlBcgcIARIDTVNQQAFIAZgBAQ&hl=en&curr=USD", "label": "MSP Delta NS RT / person", "basis": "Round-trip / person (x2 for 2 adults)", "tip": ""}, {"x": "2026-09-28", "y": 748, "out": "DL nonstop MSP→MIA", "ret": "DL return (not re-logged)", "airline": "Delta", "url": "https://www.google.com/travel/flights/search?tfs=EAAaHhIKMjAyNi0xMi0xOGoHCAESA01TUHIHCAESA01JQRoeEgoyMDI2LTEyLTI5agcIARIDTUlBcgcIARIDTVNQQAFIAZgBAQ&hl=en&curr=USD", "label": "MSP Delta NS RT / person", "basis": "Round-trip / person (x2 for 2 adults)", "tip": ""}, {"x": "2026-09-29", "y": 748, "out": "DL NS", "ret": "DL return", "airline": "Delta", "url": "https://www.google.com/travel/flights/search?tfs=EAAaHhIKMjAyNi0xMi0xOGoHCAESA01TUHIHCAESA01JQRoeEgoyMDI2LTEyLTI5agcIARIDTUlBcgcIARIDTVNQQAFIAZgBAQ&hl=en&curr=USD", "label": "MSP Delta NS RT / person", "basis": "Round-trip / person (x2 for 2 adults)", "tip": ""}, {"x": "2026-09-30", "y": 738, "out": "DL NS", "ret": "DL return", "airline": "Delta", "url": "https://www.google.com/travel/flights/search?tfs=EAAaHhIKMjAyNi0xMi0xOGoHCAESA01TUHIHCAESA01JQRoeEgoyMDI2LTEyLTI5agcIARIDTUlBcgcIARIDTVNQQAFIAZgBAQ&hl=en&curr=USD", "label": "MSP Delta NS RT / person", "basis": "Round-trip / person (x2 for 2 adults)", "tip": ""}, {"x": "2026-10-01", "y": 668, "out": "DL MSP→MIA NS", "ret": "DL return", "airline": "Delta", "url": "https://www.google.com/travel/flights/search?tfs=EAAaHhIKMjAyNi0xMi0xOGoHCAESA01TUHIHCAESA01JQRoeEgoyMDI2LTEyLTI5agcIARIDTUlBcgcIARIDTVNQQAFIAZgBAQ&hl=en&curr=USD", "label": "MSP Delta NS RT / person", "basis": "Round-trip / person (x2 for 2 adults)", "tip": ""}, {"x": "2026-10-02", "y": 668, "out": "DL MSP 8:50a→MIA 1:34p or 6:59p→11:48p Dec 18", "ret": "open search for Dec 29 DL return", "airline": "Delta", "url": "https://www.google.com/travel/flights/search?tfs=EAAaHhIKMjAyNi0xMi0xOGoHCAESA01TUHIHCAESA01JQRoeEgoyMDI2LTEyLTI5agcIARIDTUlBcgcIARIDTVNQQAFIAZgBAQ&hl=en&curr=USD", "label": "MSP Delta NS RT / person", "basis": "Round-trip / person (x2 for 2 adults)", "tip": ""}, {"x": "2026-10-03", "y": 668, "out": "DL MSP 8:50a→MIA 1:34p or 6:59p→11:48p Dec 18", "ret": "open search for Dec 29 DL return", "airline": "Delta", "url": "https://www.google.com/travel/flights/search?tfs=EAAaHhIKMjAyNi0xMi0xOGoHCAESA01TUHIHCAESA01JQRoeEgoyMDI2LTEyLTI5agcIARIDTUlBcgcIARIDTVNQQAFIAZgBAQ&hl=en&curr=USD", "label": "MSP Delta NS RT / person", "basis": "Round-trip / person (x2 for 2 adults)", "tip": ""}, {"x": "2026-10-04", "y": 668, "out": "DL MSP 8:50a→MIA 1:34p or 6:59p→11:48p Dec 18", "ret": "open search for Dec 29 DL return", "airline": "Delta", "url": "https://www.google.com/travel/flights/search?tfs=EAAaHhIKMjAyNi0xMi0xOGoHCAESA01TUHIHCAESA01JQRoeEgoyMDI2LTEyLTI5agcIARIDTUlBcgcIARIDTVNQQAFIAZgBAQ&hl=en&curr=USD", "label": "MSP Delta NS RT / person", "basis": "Round-trip / person (x2 for 2 adults)", "tip": ""}, {"x": "2026-10-05", "y": 698, "out": "DL MSP 8:50a→MIA 1:34p or 6:59p→11:48p Dec 18", "ret": "open search for Dec 29 DL return", "airline": "Delta", "url": "https://www.google.com/travel/flights/search?tfs=EAAaHhIKMjAyNi0xMi0xOGoHCAESA01TUHIHCAESA01JQRoeEgoyMDI2LTEyLTI5agcIARIDTUlBcgcIARIDTVNQQAFIAZgBAQ&hl=en&curr=USD", "label": "MSP Delta NS RT / person", "basis": "Round-trip / person (x2 for 2 adults)", "tip": ""}], "tension": 0.2, "pointRadius": 5, "pointHoverRadius": 8}, {"label": "BOS American RT", "borderColor": "#2a9d8f", "backgroundColor": "#2a9d8f", "data": [{"x": "2026-09-27", "y": 543, "out": "AA BOS 6:00a→MIA 9:42a Dec 18", "ret": "AA MIA 12:25p→BOS 4:02p Dec 29", "airline": "American", "url": "https://www.google.com/travel/flights/search?tfs=EAAaHhIKMjAyNi0xMi0xOGoHCAESA0JPU3IHCAESA01JQRoeEgoyMDI2LTEyLTI5agcIARIDTUlBcgcIARIDQk9TQAFIAZgBAQ&hl=en&curr=USD", "label": "BOS American RT", "basis": "Round-trip (1 adult)", "tip": ""}, {"x": "2026-09-28", "y": 463, "out": "AA morning BOS→MIA", "ret": "AA return (not re-logged that day)", "airline": "American", "url": "https://www.google.com/travel/flights/search?tfs=EAAaHhIKMjAyNi0xMi0xOGoHCAESA0JPU3IHCAESA01JQRoeEgoyMDI2LTEyLTI5agcIARIDTUlBcgcIARIDQk9TQAFIAZgBAQ&hl=en&curr=USD", "label": "BOS American RT", "basis": "Round-trip (1 adult)", "tip": ""}, {"x": "2026-09-29", "y": 463, "out": "AA BOS→MIA", "ret": "return not re-logged", "airline": "American", "url": "https://www.google.com/travel/flights/search?tfs=EAAaHhIKMjAyNi0xMi0xOGoHCAESA0JPU3IHCAESA01JQRoeEgoyMDI2LTEyLTI5agcIARIDTUlBcgcIARIDQk9TQAFIAZgBAQ&hl=en&curr=USD", "label": "BOS American RT", "basis": "Round-trip (1 adult)", "tip": ""}, {"x": "2026-09-30", "y": 480, "out": "AA BOS→MIA", "ret": "return not re-logged", "airline": "American", "url": "https://www.google.com/travel/flights/search?tfs=EAAaHhIKMjAyNi0xMi0xOGoHCAESA0JPU3IHCAESA01JQRoeEgoyMDI2LTEyLTI5agcIARIDTUlBcgcIARIDQk9TQAFIAZgBAQ&hl=en&curr=USD", "label": "BOS American RT", "basis": "Round-trip (1 adult)", "tip": ""}, {"x": "2026-10-01", "y": 508, "out": "AA BOS 6:00a→MIA 9:42a Dec 18", "ret": "return not captured in scan email", "airline": "American", "url": "https://www.google.com/travel/flights/search?tfs=EAAaHhIKMjAyNi0xMi0xOGoHCAESA0JPU3IHCAESA01JQRoeEgoyMDI2LTEyLTI5agcIARIDTUlBcgcIARIDQk9TQAFIAZgBAQ&hl=en&curr=USD", "label": "BOS American RT", "basis": "Round-trip (1 adult)", "tip": ""}, {"x": "2026-10-02", "y": 508, "out": "AA BOS 6:00a→MIA 9:42a Dec 18", "ret": "open search for Dec 29 AA return (prefer afternoon nonstop)", "airline": "American", "url": "https://www.google.com/travel/flights/search?tfs=EAAaHhIKMjAyNi0xMi0xOGoHCAESA0JPU3IHCAESA01JQRoeEgoyMDI2LTEyLTI5agcIARIDTUlBcgcIARIDQk9TQAFIAZgBAQ&hl=en&curr=USD", "label": "BOS American RT", "basis": "Round-trip (1 adult)", "tip": ""}, {"x": "2026-10-03", "y": 596, "out": "AA BOS 6:00a→MIA 9:42a Dec 18", "ret": "open search for Dec 29 AA return (prefer afternoon nonstop)", "airline": "American", "url": "https://www.google.com/travel/flights/search?tfs=EAAaHhIKMjAyNi0xMi0xOGoHCAESA0JPU3IHCAESA01JQRoeEgoyMDI2LTEyLTI5agcIARIDTUlBcgcIARIDQk9TQAFIAZgBAQ&hl=en&curr=USD", "label": "BOS American RT", "basis": "Round-trip (1 adult)", "tip": ""}, {"x": "2026-10-04", "y": 586, "out": "AA BOS 5:00a→MIA 8:42a or 6:00a→9:42a Dec 18", "ret": "open search for Dec 29 AA return (prefer afternoon nonstop)", "airline": "American", "url": "https://www.google.com/travel/flights/search?tfs=EAAaHhIKMjAyNi0xMi0xOGoHCAESA0JPU3IHCAESA01JQRoeEgoyMDI2LTEyLTI5agcIARIDTUlBcgcIARIDQk9TQAFIAZgBAQ&hl=en&curr=USD", "label": "BOS American RT", "basis": "Round-trip (1 adult)", "tip": ""}, {"x": "2026-10-05", "y": 518, "out": "AA BOS 6:00a→MIA 9:42a Dec 18", "ret": "open search for Dec 29 AA return (prefer afternoon nonstop)", "airline": "American", "url": "https://www.google.com/travel/flights/search?tfs=EAAaHhIKMjAyNi0xMi0xOGoHCAESA0JPU3IHCAESA01JQRoeEgoyMDI2LTEyLTI5agcIARIDTUlBcgcIARIDQk9TQAFIAZgBAQ&hl=en&curr=USD", "label": "BOS American RT", "basis": "Round-trip (1 adult)", "tip": ""}], "tension": 0.2, "pointRadius": 5, "pointHoverRadius": 8}, {"label": "NYC useful NS RT", "borderColor": "#9b5de5", "backgroundColor": "#9b5de5", "data": [{"x": "2026-09-27", "y": 532, "out": "AA EWR 6:00a→MIA 9:15a Dec 18", "ret": "AA MIA 2:24p→EWR 5:33p Dec 29", "airline": "American", "url": "https://www.google.com/travel/flights/search?tfs=EAAaHhIKMjAyNi0xMi0xOGoHCAESA05ZQ3IHCAESA01JQRoeEgoyMDI2LTEyLTI5agcIARIDTUlBcgcIARIDTllDQAFIAZgBAQ&hl=en&curr=USD", "label": "NYC useful NS RT", "basis": "Round-trip (1 adult)", "tip": ""}, {"x": "2026-09-28", "y": 462, "out": "AA LGA morning", "ret": "return not re-logged", "airline": "American", "url": "https://www.google.com/travel/flights/search?tfs=EAAaHhIKMjAyNi0xMi0xOGoHCAESA05ZQ3IHCAESA01JQRoeEgoyMDI2LTEyLTI5agcIARIDTUlBcgcIARIDTllDQAFIAZgBAQ&hl=en&curr=USD", "label": "NYC useful NS RT", "basis": "Round-trip (1 adult)", "tip": ""}, {"x": "2026-09-29", "y": 457, "out": "UA EWR→MIA", "ret": "return not re-logged", "airline": "United", "url": "https://www.google.com/travel/flights/search?tfs=EAAaHhIKMjAyNi0xMi0xOGoHCAESA05ZQ3IHCAESA01JQRoeEgoyMDI2LTEyLTI5agcIARIDTUlBcgcIARIDTllDQAFIAZgBAQ&hl=en&curr=USD", "label": "NYC useful NS RT", "basis": "Round-trip (1 adult)", "tip": ""}, {"x": "2026-09-30", "y": 458, "out": "UA EWR→MIA", "ret": "return not re-logged", "airline": "United", "url": "https://www.google.com/travel/flights/search?tfs=EAAaHhIKMjAyNi0xMi0xOGoHCAESA05ZQ3IHCAESA01JQRoeEgoyMDI2LTEyLTI5agcIARIDTUlBcgcIARIDTllDQAFIAZgBAQ&hl=en&curr=USD", "label": "NYC useful NS RT", "basis": "Round-trip (1 adult)", "tip": ""}, {"x": "2026-10-01", "y": 457, "out": "UA EWR 1:25p→MIA 4:47p Dec 18", "ret": "return not captured in scan email", "airline": "United", "url": "https://www.google.com/travel/flights/search?tfs=EAAaHhIKMjAyNi0xMi0xOGoHCAESA05ZQ3IHCAESA01JQRoeEgoyMDI2LTEyLTI5agcIARIDTUlBcgcIARIDTllDQAFIAZgBAQ&hl=en&curr=USD", "label": "NYC useful NS RT", "basis": "Round-trip (1 adult)", "tip": ""}, {"x": "2026-10-02", "y": 457, "out": "UA EWR 1:25p→MIA 4:47p Dec 18", "ret": "open search for Dec 29 return", "airline": "United", "url": "https://www.google.com/travel/flights/search?tfs=EAAaHhIKMjAyNi0xMi0xOGoHCAESA05ZQ3IHCAESA01JQRoeEgoyMDI2LTEyLTI5agcIARIDTUlBcgcIARIDTllDQAFIAZgBAQ&hl=en&curr=USD", "label": "NYC useful NS RT", "basis": "Round-trip (1 adult)", "tip": ""}, {"x": "2026-10-03", "y": 459, "out": "UA EWR 1:25p→MIA 4:47p Dec 18", "ret": "open search for Dec 29 return", "airline": "United", "url": "https://www.google.com/travel/flights/search?tfs=EAAaHhIKMjAyNi0xMi0xOGoHCAESA05ZQ3IHCAESA01JQRoeEgoyMDI2LTEyLTI5agcIARIDTUlBcgcIARIDTllDQAFIAZgBAQ&hl=en&curr=USD", "label": "NYC useful NS RT", "basis": "Round-trip (1 adult)", "tip": ""}, {"x": "2026-10-04", "y": 457, "out": "UA EWR 1:25p→MIA 4:47p Dec 18", "ret": "open search for Dec 29 return", "airline": "United", "url": "https://www.google.com/travel/flights/search?tfs=EAAaHhIKMjAyNi0xMi0xOGoHCAESA05ZQ3IHCAESA01JQRoeEgoyMDI2LTEyLTI5agcIARIDTUlBcgcIARIDTllDQAFIAZgBAQ&hl=en&curr=USD", "label": "NYC useful NS RT", "basis": "Round-trip (1 adult)", "tip": ""}, {"x": "2026-10-05", "y": 457, "out": "UA EWR 1:25p→MIA 4:47p Dec 18", "ret": "open search for Dec 29 return", "airline": "United", "url": "https://www.google.com/travel/flights/search?tfs=EAAaHhIKMjAyNi0xMi0xOGoHCAESA05ZQ3IHCAESA01JQRoeEgoyMDI2LTEyLTI5agcIARIDTUlBcgcIARIDTllDQAFIAZgBAQ&hl=en&curr=USD", "label": "NYC useful NS RT", "basis": "Round-trip (1 adult)", "tip": ""}], "tension": 0.2, "pointRadius": 5, "pointHoverRadius": 8}, {"label": "MCI American RT", "borderColor": "#e9c46a", "backgroundColor": "#e9c46a", "data": [{"x": "2026-09-27", "y": 573, "out": "AA MCI 5:00a→MIA 9:15a Dec 18", "ret": "AA MIA 2:10p→MCI 4:43p Dec 29", "airline": "American", "url": "https://www.google.com/travel/flights/search?tfs=EAAaHhIKMjAyNi0xMi0xOGoHCAESA01DSXIHCAESA01JQRoeEgoyMDI2LTEyLTI5agcIARIDTUlBcgcIARIDTUNJQAFIAZgBAQ&hl=en&curr=USD", "label": "MCI American RT", "basis": "Round-trip (1 adult)", "tip": ""}, {"x": "2026-09-28", "y": 402, "out": "AA evening MCI→MIA (cheapest NS)", "ret": "return not re-logged", "airline": "American", "url": "https://www.google.com/travel/flights/search?tfs=EAAaHhIKMjAyNi0xMi0xOGoHCAESA01DSXIHCAESA01JQRoeEgoyMDI2LTEyLTI5agcIARIDTUlBcgcIARIDTUNJQAFIAZgBAQ&hl=en&curr=USD", "label": "MCI American RT", "basis": "Round-trip (1 adult)", "tip": ""}, {"x": "2026-09-29", "y": 403, "out": "AA MCI→MIA", "ret": "return not re-logged", "airline": "American", "url": "https://www.google.com/travel/flights/search?tfs=EAAaHhIKMjAyNi0xMi0xOGoHCAESA01DSXIHCAESA01JQRoeEgoyMDI2LTEyLTI5agcIARIDTUlBcgcIARIDTUNJQAFIAZgBAQ&hl=en&curr=USD", "label": "MCI American RT", "basis": "Round-trip (1 adult)", "tip": ""}, {"x": "2026-09-30", "y": 402, "out": "AA MCI→MIA", "ret": "return not re-logged", "airline": "American", "url": "https://www.google.com/travel/flights/search?tfs=EAAaHhIKMjAyNi0xMi0xOGoHCAESA01DSXIHCAESA01JQRoeEgoyMDI2LTEyLTI5agcIARIDTUlBcgcIARIDTUNJQAFIAZgBAQ&hl=en&curr=USD", "label": "MCI American RT", "basis": "Round-trip (1 adult)", "tip": ""}, {"x": "2026-10-01", "y": 402, "out": "AA MCI 5:23p→MIA 9:40p Dec 18", "ret": "return not captured in scan email", "airline": "American", "url": "https://www.google.com/travel/flights/search?tfs=EAAaHhIKMjAyNi0xMi0xOGoHCAESA01DSXIHCAESA01JQRoeEgoyMDI2LTEyLTI5agcIARIDTUlBcgcIARIDTUNJQAFIAZgBAQ&hl=en&curr=USD", "label": "MCI American RT", "basis": "Round-trip (1 adult)", "tip": ""}, {"x": "2026-10-02", "y": 407, "out": "AA MCI 5:23p→MIA 9:40p Dec 18", "ret": "open search for Dec 29 return", "airline": "American", "url": "https://www.google.com/travel/flights/search?tfs=EAAaHhIKMjAyNi0xMi0xOGoHCAESA01DSXIHCAESA01JQRoeEgoyMDI2LTEyLTI5agcIARIDTUlBcgcIARIDTUNJQAFIAZgBAQ&hl=en&curr=USD", "label": "MCI American RT", "basis": "Round-trip (1 adult)", "tip": ""}, {"x": "2026-10-03", "y": 407, "out": "AA MCI 5:23p→MIA 9:40p Dec 18", "ret": "open search for Dec 29 return", "airline": "American", "url": "https://www.google.com/travel/flights/search?tfs=EAAaHhIKMjAyNi0xMi0xOGoHCAESA01DSXIHCAESA01JQRoeEgoyMDI2LTEyLTI5agcIARIDTUlBcgcIARIDTUNJQAFIAZgBAQ&hl=en&curr=USD", "label": "MCI American RT", "basis": "Round-trip (1 adult)", "tip": ""}, {"x": "2026-10-04", "y": 407, "out": "AA MCI 5:23p→MIA 9:40p Dec 18", "ret": "open search for Dec 29 return", "airline": "American", "url": "https://www.google.com/travel/flights/search?tfs=EAAaHhIKMjAyNi0xMi0xOGoHCAESA01DSXIHCAESA01JQRoeEgoyMDI2LTEyLTI5agcIARIDTUlBcgcIARIDTUNJQAFIAZgBAQ&hl=en&curr=USD", "label": "MCI American RT", "basis": "Round-trip (1 adult)", "tip": ""}, {"x": "2026-10-05", "y": 407, "out": "AA MCI 5:23p→MIA 9:40p Dec 18", "ret": "open search for Dec 29 return", "airline": "American", "url": "https://www.google.com/travel/flights/search?tfs=EAAaHhIKMjAyNi0xMi0xOGoHCAESA01DSXIHCAESA01JQRoeEgoyMDI2LTEyLTI5agcIARIDTUlBcgcIARIDTUNJQAFIAZgBAQ&hl=en&curr=USD", "label": "MCI American RT", "basis": "Round-trip (1 adult)", "tip": ""}], "tension": 0.2, "pointRadius": 5, "pointHoverRadius": 8}, {"label": "BNA->MIA->MSP full trip", "borderColor": "#264653", "backgroundColor": "#264653", "data": [{"x": "2026-09-27", "y": 413, "out": "AA BNA 5:00a→MIA 8:27a Dec 18", "ret": "AA MIA 8:55p→MSP 11:59p Dec 29 (or SY midday)", "airline": "AA + return", "url": "https://www.google.com/travel/flights/search?tfs=EAAaHhIKMjAyNi0xMi0xOGoHCAESA0JOQXIHCAESA01JQRoeEgoyMDI2LTEyLTI5agcIARIDTUlBcgcIARIDTVNQQAFIAZgBAQ&hl=en&curr=USD", "label": "BNA→MIA→MSP full trip", "basis": "Full open-jaw trip", "tip": ""}, {"x": "2026-09-28", "y": 416, "out": "AA BNA early→MIA", "ret": "SY/AA MIA→MSP", "airline": "AA+SY", "url": "https://www.google.com/travel/flights/search?tfs=EAAaHhIKMjAyNi0xMi0xOGoHCAESA0JOQXIHCAESA01JQRoeEgoyMDI2LTEyLTI5agcIARIDTUlBcgcIARIDTVNQQAFIAZgBAQ&hl=en&curr=USD", "label": "BNA→MIA→MSP full trip", "basis": "Full open-jaw trip", "tip": ""}, {"x": "2026-09-29", "y": 423, "out": "AA BNA 5:00a→8:27a", "ret": "SY MIA 11:51a→MSP 3:00p", "airline": "AA+SY", "url": "https://www.google.com/travel/flights/search?tfs=EAAaHhIKMjAyNi0xMi0xOGoHCAESA0JOQXIHCAESA01JQRoeEgoyMDI2LTEyLTI5agcIARIDTUlBcgcIARIDTVNQQAFIAZgBAQ&hl=en&curr=USD", "label": "BNA→MIA→MSP full trip", "basis": "Full open-jaw trip", "tip": ""}, {"x": "2026-09-30", "y": 423, "out": "AA BNA 5:00a→8:27a", "ret": "SY MIA 11:51a→MSP 3:00p", "airline": "AA+SY", "url": "https://www.google.com/travel/flights/search?tfs=EAAaHhIKMjAyNi0xMi0xOGoHCAESA0JOQXIHCAESA01JQRoeEgoyMDI2LTEyLTI5agcIARIDTUlBcgcIARIDTVNQQAFIAZgBAQ&hl=en&curr=USD", "label": "BNA→MIA→MSP full trip", "basis": "Full open-jaw trip", "tip": ""}, {"x": "2026-10-01", "y": 423, "out": "AA BNA 5:00a→MIA 8:27a $264", "ret": "SY MIA 11:51a→MSP 3:00p $159", "airline": "AA+SY", "url": "https://www.google.com/travel/flights/search?tfs=EAAaHhIKMjAyNi0xMi0xOGoHCAESA0JOQXIHCAESA01JQRoeEgoyMDI2LTEyLTI5agcIARIDTUlBcgcIARIDTVNQQAFIAZgBAQ&hl=en&curr=USD", "label": "BNA→MIA→MSP full trip", "basis": "Full open-jaw trip", "tip": ""}, {"x": "2026-10-02", "y": 423, "out": "AA BNA 5:00a→MIA 8:27a $264", "ret": "SY MIA 11:51a→MSP 3:00p $159", "airline": "AA+SY", "url": "https://www.google.com/travel/flights/search?tfs=EAAaHhIKMjAyNi0xMi0xOGoHCAESA0JOQXIHCAESA01JQRoeEgoyMDI2LTEyLTI5agcIARIDTUlBcgcIARIDTVNQQAFIAZgBAQ&hl=en&curr=USD", "label": "BNA→MIA→MSP full trip", "basis": "Full open-jaw trip", "tip": ""}, {"x": "2026-10-03", "y": 423, "out": "AA BNA 5:00a→MIA 8:27a $264", "ret": "SY MIA 11:51a→MSP 3:00p $159", "airline": "AA+SY", "url": "https://www.google.com/travel/flights/search?tfs=EAAaHhIKMjAyNi0xMi0xOGoHCAESA0JOQXIHCAESA01JQRoeEgoyMDI2LTEyLTI5agcIARIDTUlBcgcIARIDTVNQQAFIAZgBAQ&hl=en&curr=USD", "label": "BNA→MIA→MSP full trip", "basis": "Full open-jaw trip", "tip": ""}, {"x": "2026-10-04", "y": 423, "out": "AA BNA 5:00a→MIA 8:27a $264", "ret": "SY MIA 11:51a→MSP 3:00p $159", "airline": "AA+SY", "url": "https://www.google.com/travel/flights/search?tfs=EAAaHhIKMjAyNi0xMi0xOGoHCAESA0JOQXIHCAESA01JQRoeEgoyMDI2LTEyLTI5agcIARIDTUlBcgcIARIDTVNQQAFIAZgBAQ&hl=en&curr=USD", "label": "BNA→MIA→MSP full trip", "basis": "Full open-jaw trip", "tip": ""}, {"x": "2026-10-05", "y": 423, "out": "AA BNA 5:00a→MIA 8:27a $264", "ret": "SY MIA 11:51a→MSP 3:00p $159", "airline": "AA+SY", "url": "https://www.google.com/travel/flights/search?tfs=EAAaHhIKMjAyNi0xMi0xOGoHCAESA0JOQXIHCAESA01JQRoeEgoyMDI2LTEyLTI5agcIARIDTUlBcgcIARIDTVNQQAFIAZgBAQ&hl=en&curr=USD", "label": "BNA→MIA→MSP full trip", "basis": "Full open-jaw trip", "tip": ""}], "tension": 0.2, "pointRadius": 5, "pointHoverRadius": 8}];
 const chart = new Chart(document.getElementById('c'), {
   type: 'line',
   data: { datasets },
